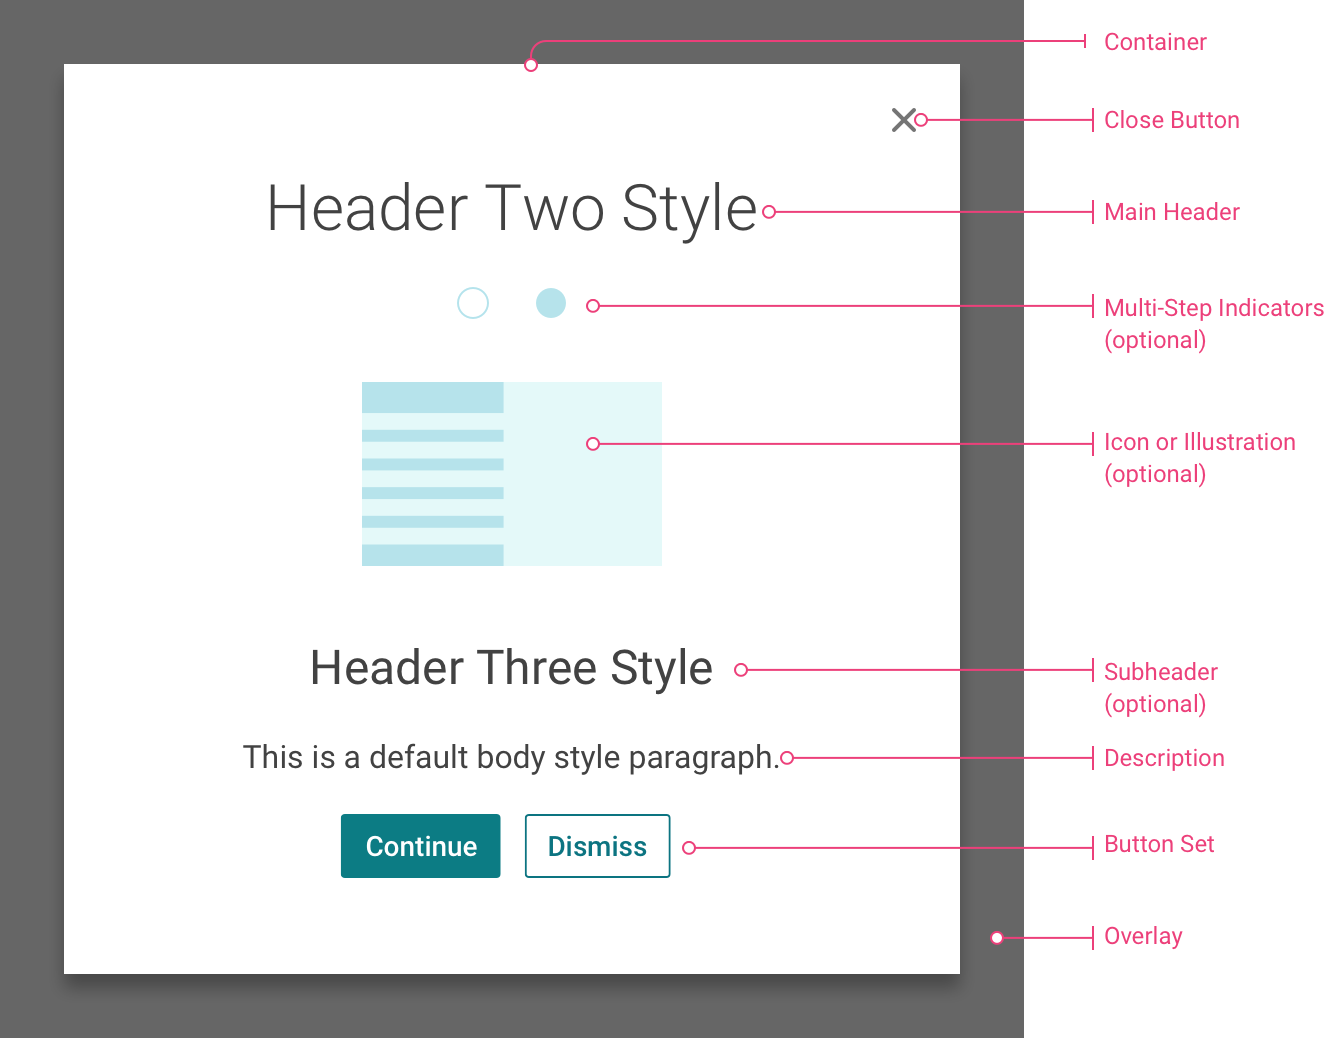
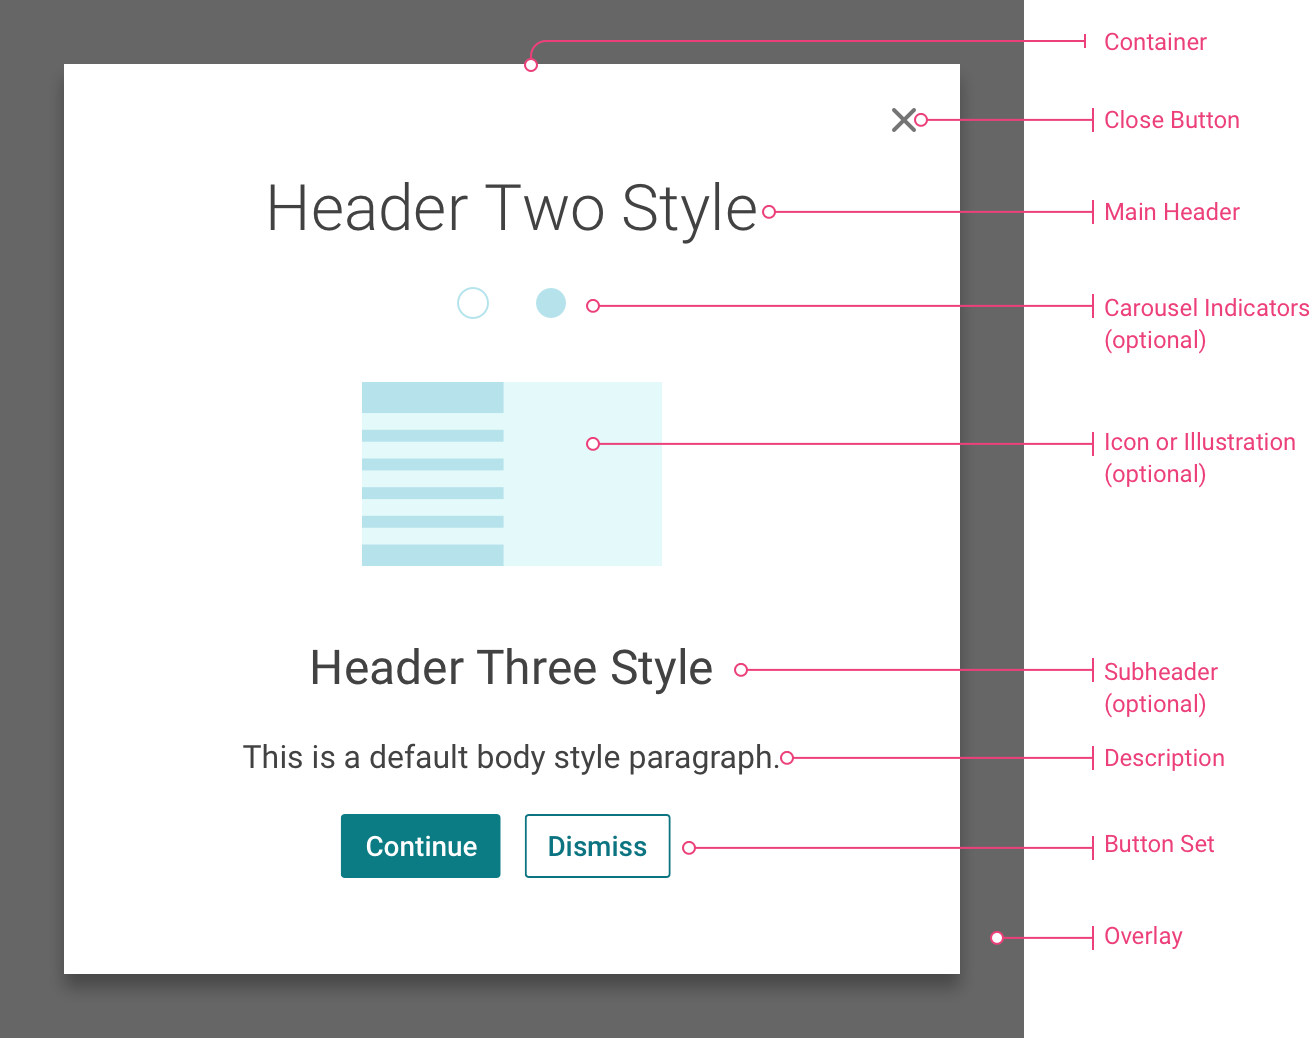
update(visual): replaced the educational modal composition visual

diff --git a/_component_design/modal.md b/_component_design/modal.md
@@ -267,7 +267,7 @@ When you have multiple ideas to present, use a carousel to let the user step thr
 An education modal is comprised of the following parts:
 
 - **Header (required)**: The header includes the highest-level message that you want to communicate to the user.
-- **Dot slider (optional)**: If the modal includes multiple steps, include a dot slider.
+- **Carousel indicator (optional)**: If the modal includes multiple steps, include a carousel indicator.
 - **Illustrative icon (optional)**: An illustrative icon enhances the messaging of the educational modal.
 - **Subheader (optional) and description**: The subheader and description include details that provide tactical direction and explanation to the user.
 - **Button set (required)**: If the modal requires action, include a button set at the bottom that describes the action that the user can take. If there is no user action, construct a tertiary **Dismiss** or **Got It** button.
@@ -277,7 +277,7 @@ An education modal is comprised of the following parts:
 {% column right:"hxCol hxSpan-12-xs hxSpan-12-sm hxSpan-8-md hxSpan-8-lg" %}
 
 {% figure [caption:"Educational modal composition"] [class:"image bg-light border"] %}
-<embed src="{{site.url}}/assets/images/components/content-areas/modal/modals-educational-modal-composition.png" width="662px"/>
+<embed src="{{site.url}}/assets/images/components/content-areas/modal/modals-educational-modal-composition.png" width="655px"/>
 {% endfigure %}
 
 {% endcolumn %}
@@ -352,8 +352,7 @@ Provide 16px of space below a header, and if you include an illustration, provid
 
 Increased spacing in an educational modal results in a greater distance between the left and right edges of the modal and its content.
 
-In this example, content is restricted to the four middle columns of a six-column layout. This specific layout will not work in all situations. Depending on the
-dimensions of your modal and content, you can choose different column settings.
+In this example, content is restricted to the four middle columns of a six-column layout. This specific layout will not work in all situations. Depending on the dimensions of your modal and content, you can choose different column settings.
 
 In general, be generous with the space between the left and right edges of the modal and its content.
 
